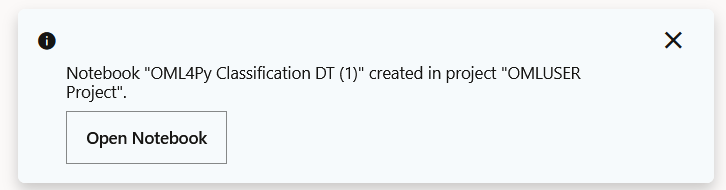
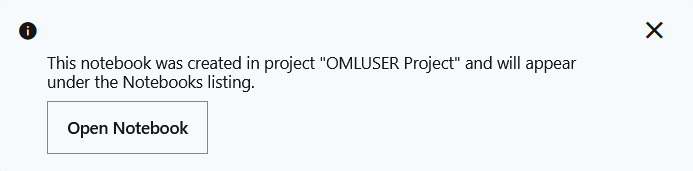
Missing screenshots added

diff --git a/oml/adv-notebooks-options/adv-notebooks-options.md b/oml/adv-notebooks-options/adv-notebooks-options.md
@@ -226,13 +226,13 @@ This step demonstrates how to create the OML4Py Classification notebook based on
 
 	![Create Notebook](images/classification-dt-example.png)
 
-3. The Create Notebook dialog opens. The Name field displays the same name as the template with the suffix `(1)`. You can edit this name. In this example, we will retain the auto-generated name `OML4PY Classification DT (1)`. Click **OK**.
+3. The Create Notebook dialog opens. The Name field displays the same name as the template with the suffix `(1)`. You can edit this name. In this example, we will retain the original name `OML4PY Classification DT`. Delete the suffix (1) and click **OK**.
 
 	> **Note:** In the Project field, the current user, project, and workspace is selected by default. You have the option to choose a different project or a workspace by clicking the edit icon here.  
 
 	![Create Classification DT notebook from example template](images/create-notebook-classification.png)
 
-4. Once the notebook is created, the message _Notebook "OML4PY Classification DT (1)" created in project "OMLUSER Project"_ is displayed, as shown in the screenshot. The notebook is now available on the Notebooks page. You may also click **Open Notebook** in the message dialog to open the notebook directly from here.
+4. Once the notebook is created, the message _This Notebook was created in project "OMLUSER Project" and will appear under the Notebooks Listing "_ is displayed, as shown in the screenshot. The notebook is now available on the Notebooks page. You may also click **Open Notebook** in the message dialog to open the notebook directly from here.
 
 	![Create notebook message](images/notebook-created-message.png)
 
@@ -261,15 +261,15 @@ If you choose to go to the home page, then click **Home** on the left navigation
 
 	![Create Notebook](images/oml4sql-time-series.png)
 
-9. The Create Notebook dialog opens. By default, the **Name** field displays the same name as the template with the suffix `(1)`. You can edit this field. In this example, we will retain the auto-generated name **OML4SQL Time Series ESM (1)** and click **OK**.
+9. The Create Notebook dialog opens. By default, the **Name** field displays the same name as the template with the suffix `(1)`. You can edit this field. In this example, let's remove the suffix and retain the original name **OML4SQL Time Series ESM** and click **OK**.
 
 	> **Note:** In the Project field, the current user, project and workspace is selected by default. You have the option to choose a different project or a workspace by clicking the edit icon here.  
 
 	![Create Time Series notebook from example template](images/create-notebook-time-series.png)
 
-10. Once the notebook is created, the message _Notebook "OML4SQL Time Series ESM (1)" created in project "OMLUSER Project"_ is displayed. The notebook is now available on the Notebooks page. You may also click **Open Notebook** in the message dialog to open the notebook directly from here.
+10. Once the notebook is created, the message _This Notebook was created in project "OMLUSER Project" and will appear under the Notebooks Listing "_ is displayed. The notebook is now available on the Notebooks page. You may also click **Open Notebook** in the message dialog to open the notebook directly from here.
 
-	![Time Series notebook message](images/esm-notebook-message.png)
+	![Time Series notebook message](images/notebook-created-message.png)
 
 11. To view the notebook, click the Cloud menu icon ![Cloud menu icon icon](images/cloud-menu-icon.png) on the top left corner of the page to open the left navigation menu. Click **Notebooks** to go to the Notebooks page.
 
